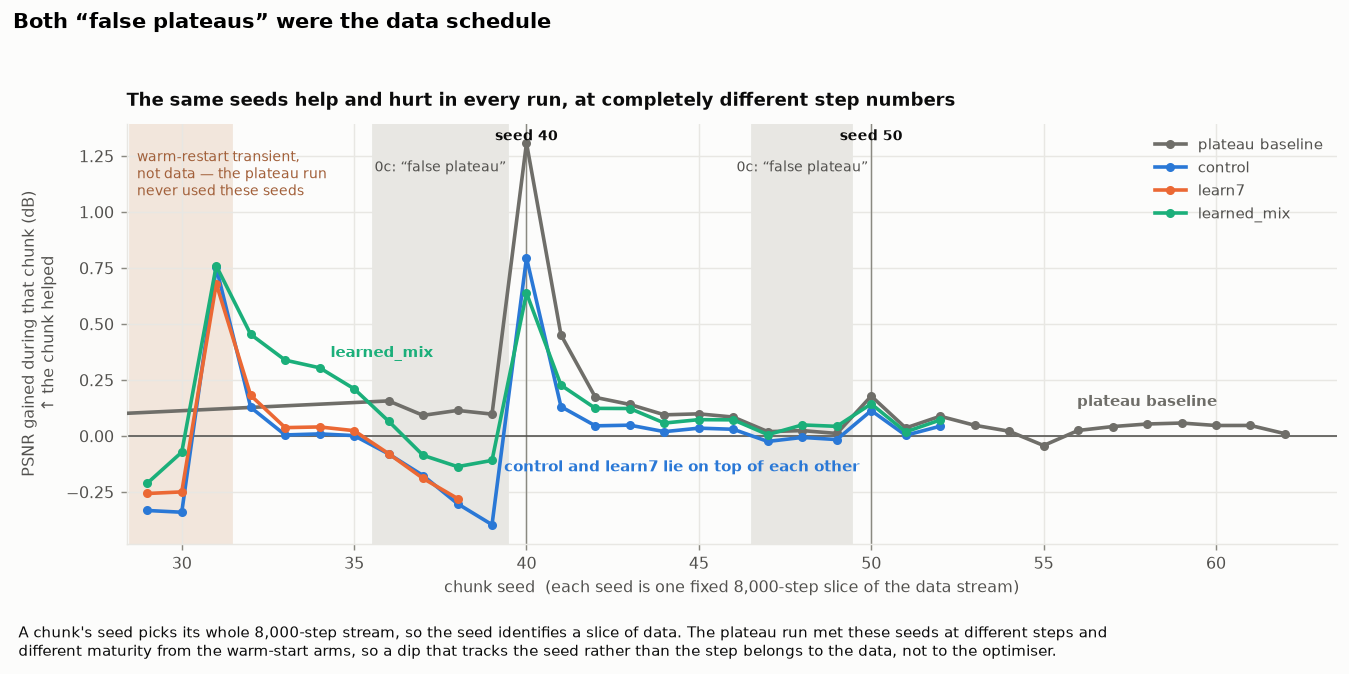
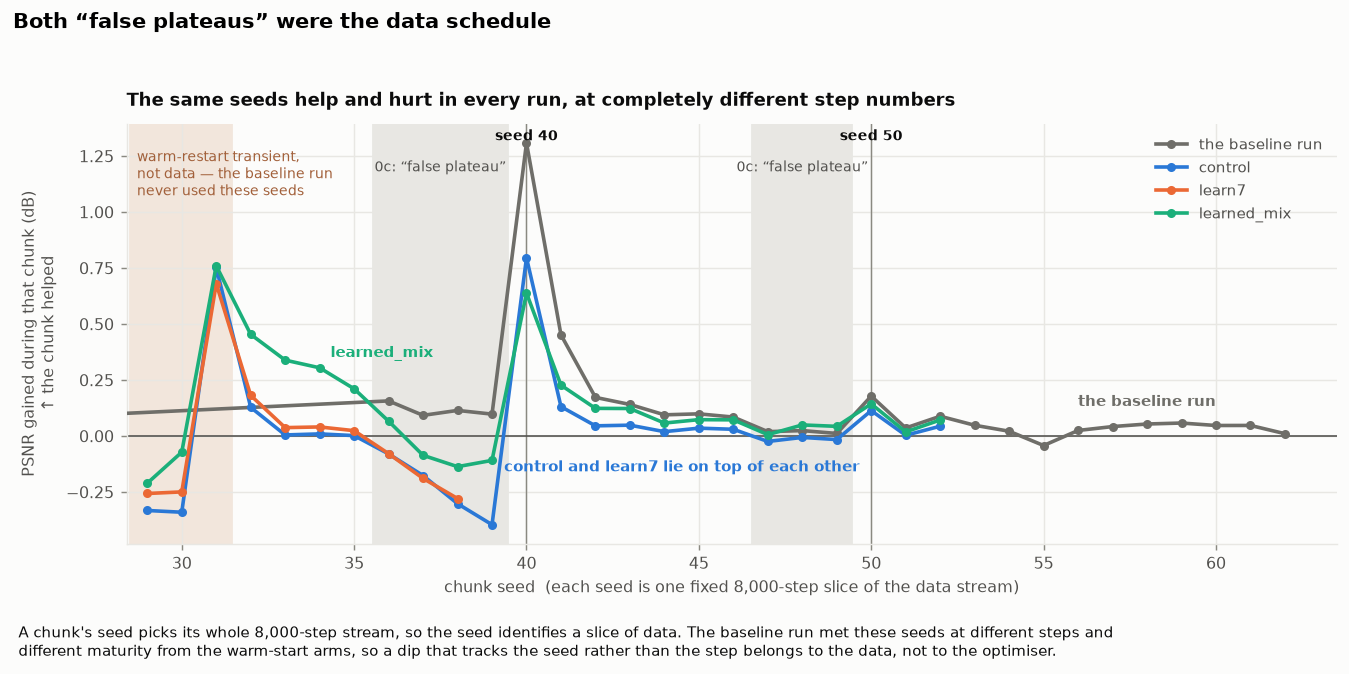
Name the runs once, and use those names everywhere
Seven runs appear on the page and several are the same configuration at different
lengths, so "the plateau run", "the calibration arms", "the baseline" and "arm"
were all doing double duty. Worst case was 0b's substitute paragraph, which
switched between "the plateau run" and "the calibration arms" mid-argument
without ever saying that A is the same configuration as the plateau run -- which
is the entire reason the substitute is tempting.

Adds a run glossary to the foundation preamble: A, B, C (the calibration arms),
the baseline run (272k constant-LR), the anneal (its final phase), and the three
warm-start arms. States the two conventions that were being blurred -- A/B/C are
calibration arms while control/learn7/learned_mix are warm-start arms, and A and
the baseline run are the same configuration -- plus the two value shorthands
("the plateau" = 24.747, "the annealed baseline" = 24.885).

Then renames throughout: "the plateau run" becomes "the baseline run" in prose,
figure labels, annotations and generated stats, and 0b's substitute paragraph
leads with the fact that makes it a trap rather than arriving at it.

diff --git a/postprocessing/plot_seed_effects.py b/postprocessing/plot_seed_effects.py
@@ -6,18 +6,18 @@ is not checkpointed, so a chunk's seed picks the entire 8,000-step stream that c
 The seed is therefore an identity for a slice of data, and the same seed means the same slice in
 every run that uses this schedule.
 
-That makes a test possible. The plateau run and the warm-start arms hit the same seeds at
+That makes a test possible. The baseline run and the warm-start arms hit the same seeds at
 DIFFERENT step numbers and at very different training maturity. If a dip belongs to training
 dynamics, it should track the step. If it belongs to the data, it should track the seed. Plot the
 per-chunk PSNR increment against the seed and the answer is direct.
 
-WHY THIS MATTERS BEYOND THE DIP. Section 0c originally read the plateau run's two flat stretches
+WHY THIS MATTERS BEYOND THE DIP. Section 0c originally read the baseline run's two flat stretches
 as false plateaus in the optimisation -- the project's own cautionary tale about calling an elbow
 too early. Both stretches, and both of the jumps that ended them, are seed-aligned and reproduce in
-the control arm 100k+ steps away from where the plateau run saw them. The caution survives, but the
+the control arm 100k+ steps away from where the baseline run saw them. The caution survives, but the
 cause was the seed schedule.
 
-Plateau is drawn as a gray reference rather than a fourth categorical hue: it is the baseline the
+The baseline run is drawn as a gray reference rather than a fourth categorical hue: it is the baseline the
 arms are read against, not another arm, and the palette's three slots are spoken for.
 """
 
@@ -43,16 +43,19 @@ from lib import (
 
 PLATEAU_C = "#6f6e69"  # gray: a reference series, deliberately not a categorical hue
 RUNS = [
-    ("plateau_baseline", "plateau", "plateau baseline", PLATEAU_C),
+    ("plateau_baseline", "plateau", "the baseline run", PLATEAU_C),
     ("warmstart_control", "control", "control", COLOR["control"]),
     ("warmstart_learn7", "learn7", "learn7", COLOR["learn7"]),
     ("warmstart_learned_mix", "learned_mix", "learned_mix", COLOR["learned_mix"]),
+    # Labels are the names RESULTS.md's run glossary uses. "the baseline run" is the 272k-step
+    # constant-LR baseline, NOT one of the A/B/C calibration arms -- a distinction the page had
+    # blurred, since A is the same configuration at 15,299 steps.
 ]
 # The two stretches section 0c called false plateaus, and the two seeds that ended them.
 POOR = [(36, 39), (47, 49)]
 GOOD = [40, 50]
 # The warm-start arms' first three chunks are their post-restart transient: the optimiser state was
-# reset and the LR raised again, so they fall and climb back regardless of data. The plateau run
+# reset and the LR raised again, so they fall and climb back regardless of data. The baseline run
 # never used these seeds, so there is no cross-run corroboration and they are NOT evidence about
 # the data. Marked on the figure so the big seed-31 rebound cannot be misread as a seed effect.
 RESTART = (29, 31)
@@ -107,7 +110,7 @@ def build():
     # other so closely for the whole run that no position separates them -- which is itself worth
     # saying, so it is said instead of being worked around.
     ax.annotate(
-        "plateau baseline",
+        "the baseline run",
         xy=(58, deltas["plateau_baseline"].get(58, 0)),
         xytext=(0, 10),
         textcoords="offset points",
@@ -157,7 +160,7 @@ def build():
             va="center",
         )
     ax.annotate(
-        "warm-restart transient,\nnot data — the plateau run\nnever used these seeds",
+        "warm-restart transient,\nnot data — the baseline run\nnever used these seeds",
         xy=(28.7, top * 0.92),
         fontsize=7.6,
         color="#a2603a",
@@ -190,7 +193,7 @@ def build():
         0.012,
         0.02,
         "A chunk's seed picks its whole 8,000-step stream, so the seed identifies a slice of data. "
-        "The plateau run met these seeds at different steps and\ndifferent maturity from the "
+        "The baseline run met these seeds at different steps and\ndifferent maturity from the "
         "warm-start arms, so a dip that tracks the seed rather than the step belongs to the data, "
         "not to the optimiser.",
         fontsize=8.5,
@@ -256,7 +259,7 @@ def stats_for(deltas: dict[str, dict[int, float]]) -> str:
         lines.append(f"- **seeds {lo}–{hi}**: " + ", ".join(poor_note) + " dB.")
         poor_note = []
     lines.append(
-        "\nThe plateau run spent its first seven chunks (steps 0–56,000) on seed 28 — the same "
+        "\nThe baseline run spent its first seven chunks (steps 0–56,000) on seed 28 — the same "
         "slice replayed seven times, before the per-chunk seed schedule existed. Fresh seeds begin "
         "at its step 64,000, which is why it has no reading for seeds 29–35.\n"
     )

diff --git a/postprocessing/plot_calibration.py b/postprocessing/plot_calibration.py
@@ -108,8 +108,9 @@ def settling_stats(curves, scored) -> str:
         remaining = max(band) - last[METRIC]
         total = first[METRIC] - last[METRIC]
         lines.append(
-            f"And flatness there would have meant nothing anyway. The same baseline configuration, "
-            f"run long, sits in the same flat band over steps 9k–20k of its own trace "
+            f"And flatness there would have meant nothing anyway. The baseline run — A's "
+            f"configuration taken to 272,000 steps — sits in the same flat band over steps 9k–20k "
+            f"of its own trace "
             f"(loss {min(band):.4f}–{max(band):.4f}, spread {max(band) - min(band):.4f}) — and then "
             f"runs to step {last['step']:,}, ending at {last[METRIC]:.4f}. Sitting in that band it "
             f"still had {remaining:.4f} of loss to shed, **{remaining / total:.0%} of its entire "

diff --git a/postprocessing/make_all.py b/postprocessing/make_all.py
@@ -133,9 +133,9 @@ def run_metadata_table() -> str:
         )
     lines.append("")
     lines.append(
-        "Note `plateau_baseline` reads as mixed because `run_anneal.sh` continues into "
-        "the plateau run's own output directory, so that log holds both the constant-LR "
-        "chunks and the cosine ones.\n"
+        "Note `plateau_baseline` (RESULTS.md calls it *the baseline run*) reads as mixed "
+        "because `run_anneal.sh` continues into that run's own output directory, so the log "
+        "holds both its constant-LR chunks and the cosine ones.\n"
     )
     return "\n".join(lines)
 

diff --git a/postprocessing/RESULTS.md b/postprocessing/RESULTS.md
@@ -39,6 +39,35 @@ Every score on this page post-dates the eval and sampling fixes that made it tru
 are in [`../CHANGELOG.md`](../CHANGELOG.md) and the gotcha list in
 [`../AGENTS.md`](../AGENTS.md) rather than here.
 
+### The runs referred to on this page
+
+Seven runs appear below and several of them are the same configuration at different lengths, so
+they are named here once and by those names throughout.
+
+| name | what it is | length | LR |
+|---|---|---|---|
+| **A** | calibration arm: the baseline configuration | 15,299 | cosine to 1e-6 |
+| **B** | calibration arm: same, bottleneck frozen at a random projection | 15,299 | cosine to 1e-6 |
+| **C** | calibration arm: same as A, different seed | 15,299 | cosine to 1e-6 |
+| **the baseline run** | the same baseline configuration as A, run to its elbow | 272,000 | constant 1e-4 |
+| **the anneal** | the baseline run's final phase, producing `checkpoint-304000` | +32,000 | cosine to 1e-6 |
+| **`control`, `learn7`, `learned_mix`** | the three warm-start arms of Experiments 1 and 2, all started from `checkpoint-304000` | 200,000 each | constant 1e-4 |
+
+Two conventions that matter for reading the sections below:
+
+- **A, B and C are the *calibration* arms; `control`, `learn7` and `learned_mix` are the
+  *warm-start* arms.** They are different studies. Where the word "arm" appears alone it is
+  qualified.
+- **A and the baseline run are the same configuration**, differing only in how long they ran and
+  on what LR schedule. That is what makes some comparisons between them tempting and wrong — see
+  0b.
+
+Two shorthands for readings rather than runs: **"the plateau"** is the baseline run's final
+constant-LR reading, **24.747 dB** at step 272,000, and **"the annealed baseline"** is 24.885 at
+304,000. Warm-start arms are read against the former — 0c says why.
+
+Per-run seeds, schedules and reading counts are in [`stats.md`](stats.md).
+
 ### 0a. A deliberately smaller codec, scoped to one consumer GPU
 
 mira's codec is a frozen DINOv3-L/16 feature extractor → a learned linear bottleneck → a ViT
@@ -91,7 +120,7 @@ What is plotted is mira's own validation loss, the per-step record these three a
 arm's final dB reading in the legend beside the arm it belongs to. These were the first runs in the
 project and they ran under the stock `checkpoint_keep_recent: 1`, so one checkpoint per arm
 survived and the dB are endpoints rather than curves. Every run after this one keeps its
-checkpoints and is scored densely — the plateau baseline has 34 PSNR readings, each warm-start arm
+checkpoints and is scored densely — the baseline run has 34 PSNR readings, each warm-start arm
 25 — so this is the only figure on the page without a dB curve, and both quantities agree here
 anyway.
 
@@ -113,17 +142,19 @@ a hue and differ by marker. Two blue curves landing far apart, with the orange i
   five readings against −0.0723 over the first half), so on the curve alone these look settled. But
   that residual slope is smaller than the reading-to-reading wobble in every arm — the last six
   readings span 0.037–0.050 — so the curve cannot tell you whether the descent has stopped, and all
-  three ticked *up* at the final reading. What settles it is that the same baseline configuration,
-  run long, sits in the same flat band (loss 0.6427–0.6988 over its own steps 9k–20k) and then runs
-  to step **304,000**, ending at 0.2076: **39% of its entire descent** was still ahead of it, worth
-  **4.762 dB** of PSNR. Flat at 15,000 steps is not converged at 15,000 steps.
+  three ticked *up* at the final reading. What settles it is **the baseline run** — A's configuration
+  taken to 272,000 steps. It sits in the same flat band over its own steps 9k–20k (loss
+  0.6427–0.6988) and then keeps going to 0.2076: **39% of its entire descent** was still ahead of
+  it at the point A, B and C stopped, worth **4.762 dB** of PSNR. Flat at 15,000 steps is not
+  converged at 15,000 steps.
 
-**A tempting substitute that does not work.** The plateau run (0c) is the same baseline
-configuration, cold-started and scored from step 8,000, and its reading at 16,000 (20.123 dB) sits
-almost exactly on A's 20.105 at 15,299 — so it looks like a free third replicate of the baseline
-seed. It is not comparable. The calibration arms ran a full cosine decay to 1e-6 across their
-15,300 steps and therefore finished *annealed*, while the plateau run was mid-constant-LR at 1e-4.
-Different schedules at the same step; the near-agreement is a coincidence, not evidence.
+**A tempting substitute that does not work.** Since A and **the baseline run** (0c) are the same
+configuration, the baseline run looks like a free extra replicate of A — and its reading at step
+16,000, **20.123 dB**, sits almost exactly on **A's 20.105** at 15,299. Treating that as a second
+measurement of the noise floor would be wrong. A finished *annealed*, having cosine-decayed to
+1e-6 across its 15,300 steps; the baseline run was still mid-flight at a constant 1e-4 at its
+16,000. Same configuration and nearly the same step, but different learning rates, so the
+near-agreement is a coincidence and not a replicate.
 
 This is the most useful negative result in the project, and it is why the protocol looks the way it
 does. Unpaired comparisons at short run lengths are worthless here. Everything after this uses
@@ -167,12 +198,12 @@ Training runs in hourly chunks of 8,000 steps, and each chunk resolves its own s
 chunk's seed selects the entire 8,000-step stream that chunk trains on. **The seed is an identity
 for a slice of data**, and the same seed means the same slice in every run on this schedule.
 
-That makes the two flat stretches testable, because the plateau run and the warm-start arms met the
+That makes the two flat stretches testable, because the baseline run and the warm-start arms met the
 same seeds at different step numbers and at very different maturity. If a stretch belongs to
 training dynamics it tracks the step; if it belongs to the data it tracks the seed. It tracks the
 seed:
 
-| chunk seed | plateau run | control | what 0c called it |
+| chunk seed | the baseline run | `control` | what 0c called it |
 |---|---|---|---|
 | 36–39 | +0.157 … +0.092 | −0.080 … −0.396 | first "false plateau" |
 | **40** | **+1.308** | **+0.795** | the jump that ended it |
@@ -181,7 +212,7 @@ seed:
 
 Seed 40's slice is the single best chunk of both runs. Seed 50's is the best chunk from seed 45
 onward in **all three** runs that reached it (1/18, 1/8 and 1/8). Seeds 36–39 and 47–49 are the
-worst in both — and the plateau run met them 100,000+ steps away from where the control did. Full
+worst in both — and the baseline run met them 100,000+ steps away from where `control` did. Full
 table in [`stats.md`](stats.md).
 
 So the caution in 0c stands but its explanation was wrong: those were not the optimiser stalling
@@ -195,7 +226,7 @@ and breaking free, they were four poor data slices followed by a good one, twice
   other chunk for chunk.
 
 One stretch is *not* evidence about data: the warm-start arms' first three chunks (seeds 29–31)
-fall and rebound because a warm start resets the optimiser and raises the LR. The plateau run never
+fall and rebound because a warm start resets the optimiser and raises the LR. The baseline run never
 used those seeds, so there is no cross-run check, and the figure marks them separately.
 
 ---
@@ -219,7 +250,7 @@ arm-to-arm gap is the number this design supports.
 Two things visible in the figure that are easy to miss in a table:
 
 - **Both arms dip through 72k–96k and recover at 104k.** Those are chunk seeds 36–39 and 40, and
-  section 0d shows the same seeds doing the same thing in the plateau run at a different point in
+  section 0d shows the same seeds doing the same thing in the baseline run at a different point in
   training. The shape is the data schedule, not the intervention. It is why the control had to be
   run to full length: before it was, the variant's jump at 104k looked like it might be the idea.
 - **The control keeps creeping up.** Constant LR was still buying roughly +0.03 dB per 8k steps out

diff --git a/postprocessing/stats.md b/postprocessing/stats.md
@@ -53,7 +53,7 @@ Captured by `extract_run_metadata.py`. `benchmark.jsonl` holds the scored PSNR r
 - `warmstart_control vs warmstart_learned_mix`: 25 shared seeds, identical over the shared range: **True**
 - `warmstart_control vs warmstart_learn7`: 11 shared seeds, identical over the shared range: **True**
 
-Note `plateau_baseline` reads as mixed because `run_anneal.sh` continues into the plateau run's own output directory, so that log holds both the constant-LR chunks and the cosine ones.
+Note `plateau_baseline` (RESULTS.md calls it *the baseline run*) reads as mixed because `run_anneal.sh` continues into that run's own output directory, so the log holds both its constant-LR chunks and the cosine ones.
 
 
 ---
@@ -96,7 +96,7 @@ Slopes are loss per 1,000 steps; negative is improving.
 
 Each arm's trailing trend is roughly an order of magnitude shallower than its opening one, so on the curve alone these look converged. But the residual slope over the last five readings is smaller than the spread of the last six in every arm, so the trend is inside the noise and the curve cannot tell you whether it has stopped. All three ticked *up* at the final reading.
 
-And flatness there would have meant nothing anyway. The same baseline configuration, run long, sits in the same flat band over steps 9k–20k of its own trace (loss 0.6427–0.6988, spread 0.0561) — and then runs to step 304,000, ending at 0.2076. Sitting in that band it still had 0.4912 of loss to shed, **39% of its entire descent** from 1.4550.
+And flatness there would have meant nothing anyway. The baseline run — A's configuration taken to 272,000 steps — sits in the same flat band over steps 9k–20k of its own trace (loss 0.6427–0.6988, spread 0.0561) — and then runs to step 304,000, ending at 0.2076. Sitting in that band it still had 0.4912 of loss to shed, **39% of its entire descent** from 1.4550.
 
 In the metric the page is actually about, that band is 4.762 dB short of where the run ends: 20.123 dB at step 16,000 against 24.885 at step 304,000.
 
@@ -164,7 +164,7 @@ In the metric the page is actually about, that band is 4.762 dB short of where t
 
 PSNR gained during the chunk trained with each seed. A chunk's seed picks its entire 8,000-step stream, so the same seed is the same slice of data in every run using this schedule — and the runs met these seeds at different step numbers.
 
-| chunk seed | plateau baseline | control | learn7 | learned_mix |
+| chunk seed | the baseline run | control | learn7 | learned_mix |
 |---|---|---|---|---|
 | 28 | +0.098 | — | — | — |
 | 29 | — | -0.333 | -0.257 | -0.211 |
@@ -202,12 +202,12 @@ PSNR gained during the chunk trained with each seed. A chunk's seed picks its en
 | 61 | +0.047 | — | — | — |
 | 62 | +0.010 | — | — | — |
 
-- **seed 40**: plateau baseline +1.308, control +0.795, learned_mix +0.638 dB. Rank among that run's chunks: plateau baseline 1/28, control 1/24, learned_mix 2/24.
-- **seed 50**: plateau baseline +0.178, control +0.113, learned_mix +0.143 dB. Rank among that run's chunks: plateau baseline 3/28, control 5/24, learned_mix 8/24; among seeds 45+ only: plateau baseline 1/18, control 1/8, learned_mix 1/8.
-- **seeds 36–39**: plateau baseline +0.092..+0.157, control -0.396..-0.080, learn7 -0.279..-0.079, learned_mix -0.137..+0.066 dB.
-- **seeds 47–49**: plateau baseline +0.011..+0.024, control -0.024..-0.006, learned_mix +0.006..+0.049 dB.
+- **seed 40**: the baseline run +1.308, control +0.795, learned_mix +0.638 dB. Rank among that run's chunks: the baseline run 1/28, control 1/24, learned_mix 2/24.
+- **seed 50**: the baseline run +0.178, control +0.113, learned_mix +0.143 dB. Rank among that run's chunks: the baseline run 3/28, control 5/24, learned_mix 8/24; among seeds 45+ only: the baseline run 1/18, control 1/8, learned_mix 1/8.
+- **seeds 36–39**: the baseline run +0.092..+0.157, control -0.396..-0.080, learn7 -0.279..-0.079, learned_mix -0.137..+0.066 dB.
+- **seeds 47–49**: the baseline run +0.011..+0.024, control -0.024..-0.006, learned_mix +0.006..+0.049 dB.
 
-The plateau run spent its first seven chunks (steps 0–56,000) on seed 28 — the same slice replayed seven times, before the per-chunk seed schedule existed. Fresh seeds begin at its step 64,000, which is why it has no reading for seeds 29–35.
+The baseline run spent its first seven chunks (steps 0–56,000) on seed 28 — the same slice replayed seven times, before the per-chunk seed schedule existed. Fresh seeds begin at its step 64,000, which is why it has no reading for seeds 29–35.
 
 
 ---
